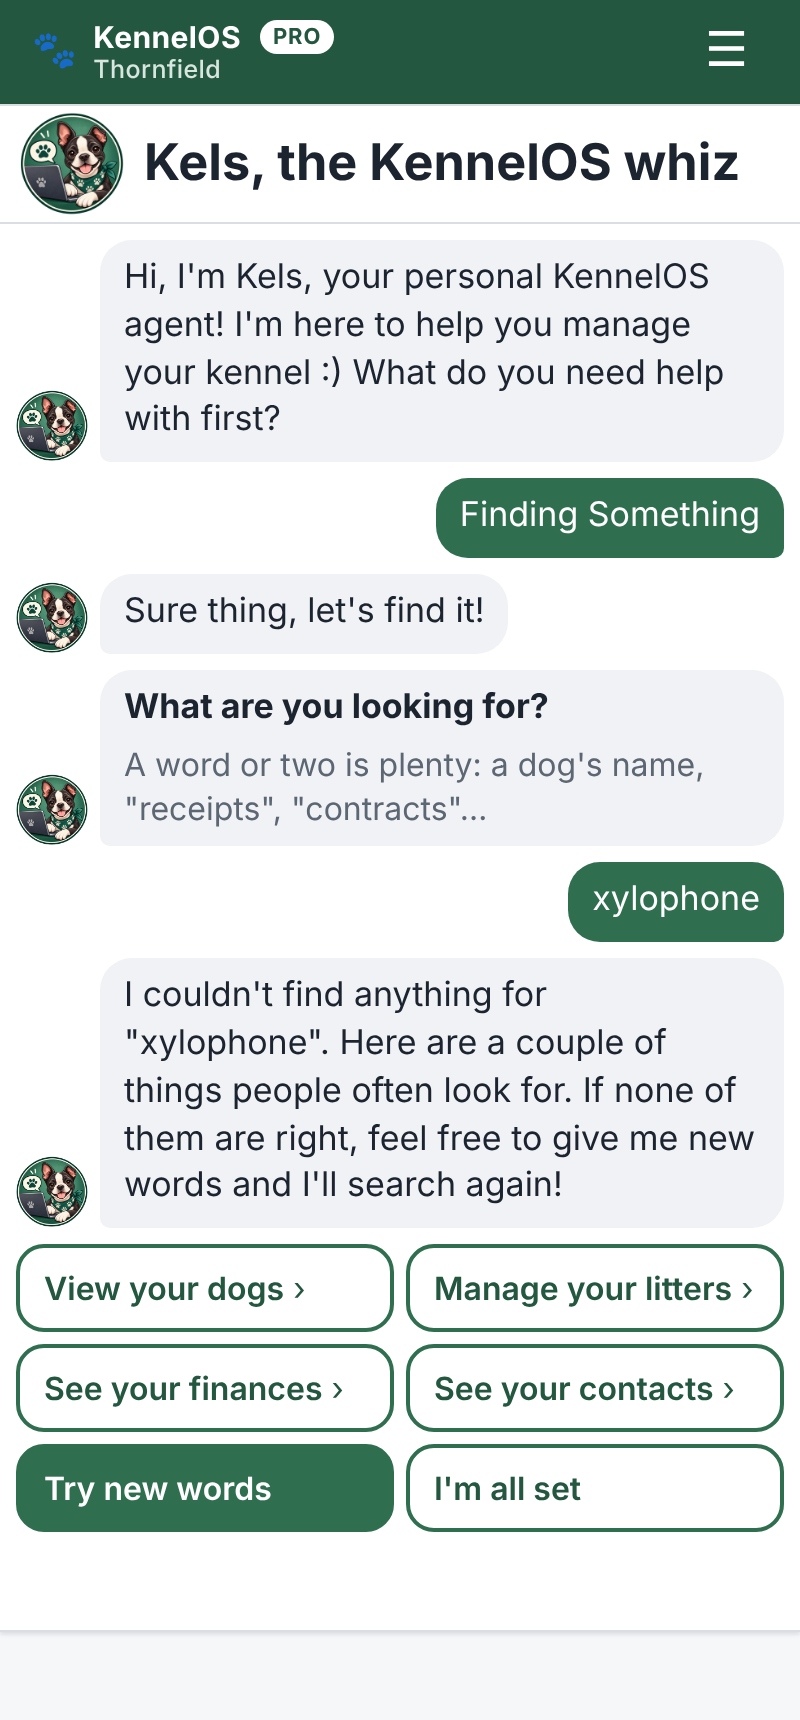
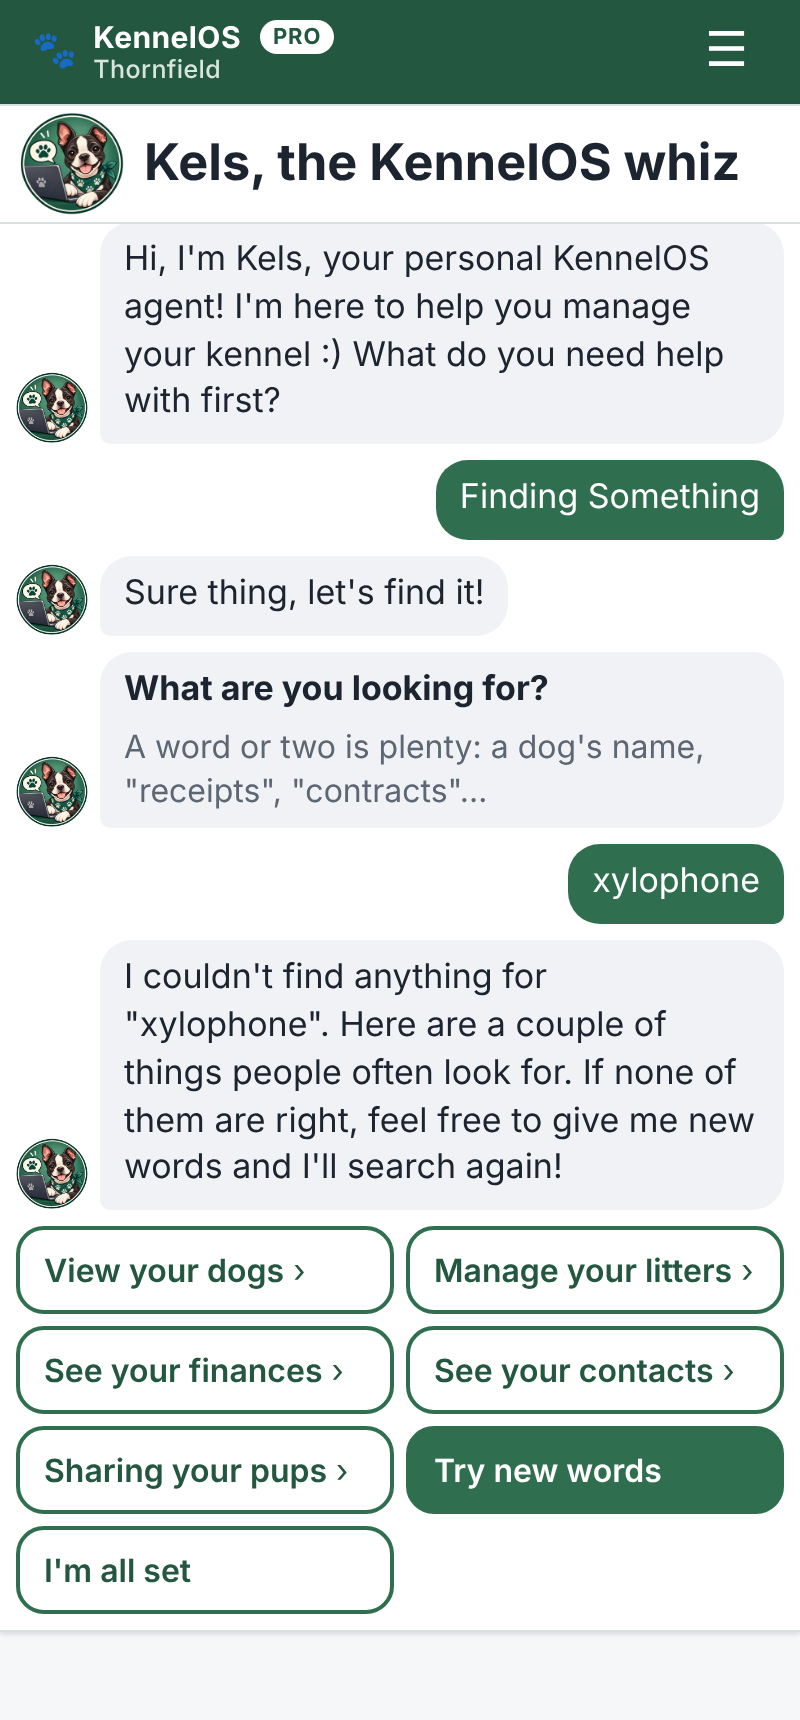
Kels Find: Sharing your pups among the no-match places (Pro)
Claude-Session: https://claude.ai/code/session_01A8URGsLoKbArbht69vfUZ6

diff --git a/shared/assets/kelsFindUI.js b/shared/assets/kelsFindUI.js
@@ -22,7 +22,8 @@ const COMMON = [
   ['place:dogs', 'View your dogs'],
   ['place:litters', 'Manage your litters'],
   ['place:financials', 'See your finances'],
-  ['place:contacts', 'See your contacts']
+  ['place:contacts', 'See your contacts'],
+  ['place:companion', 'Sharing your pups']
 ];
 
 const nav = (path) => [...navItems, ...moreItems].find((i) => i.path === path)?.label || 'the menu';

diff --git a/docs/End_State_Design_and_Maintenance_Guide.md b/docs/End_State_Design_and_Maintenance_Guide.md
@@ -1812,7 +1812,8 @@ thing, let's find it!", then a search box.
   deeper**. Nothing matched: "I couldn't find anything for "…". Here are a couple of things
   people often look for. If none of them are right, feel free to give me new words and I'll
   search again!" with **View your dogs**, **Manage your litters**, **See your finances**,
-  **See your contacts** (where the edition has each) and **Try new words**. Going
+  **See your contacts**, **Sharing your pups** (the Sharing hub's Companion page; each only
+  where the edition has it) and **Try new words**. Going
   there opens the page in this tab.
 
 ### "Record a new litter"

diff --git a/docs/KennelOS_Kels_Roadmap.md b/docs/KennelOS_Kels_Roadmap.md
@@ -260,7 +260,7 @@ As built: End-State guide §33 ("Finding Something", "The top"); history in
 and builds nothing; synonyms and slips are their own lower passes, after her words
 themselves at every level (a typo or a synonym never hides an exact word deeper down); a
 search that finds nothing offers View your dogs / Manage your litters / See your finances /
-See your contacts, or new words. Still to build: steps 3–4.
+See your contacts / Sharing your pups, or new words. Still to build: steps 3–4.
 
 Kels as a navigator and a knowledge base, not only task scripts. **Find** is first; **Understand**
 comes later.
